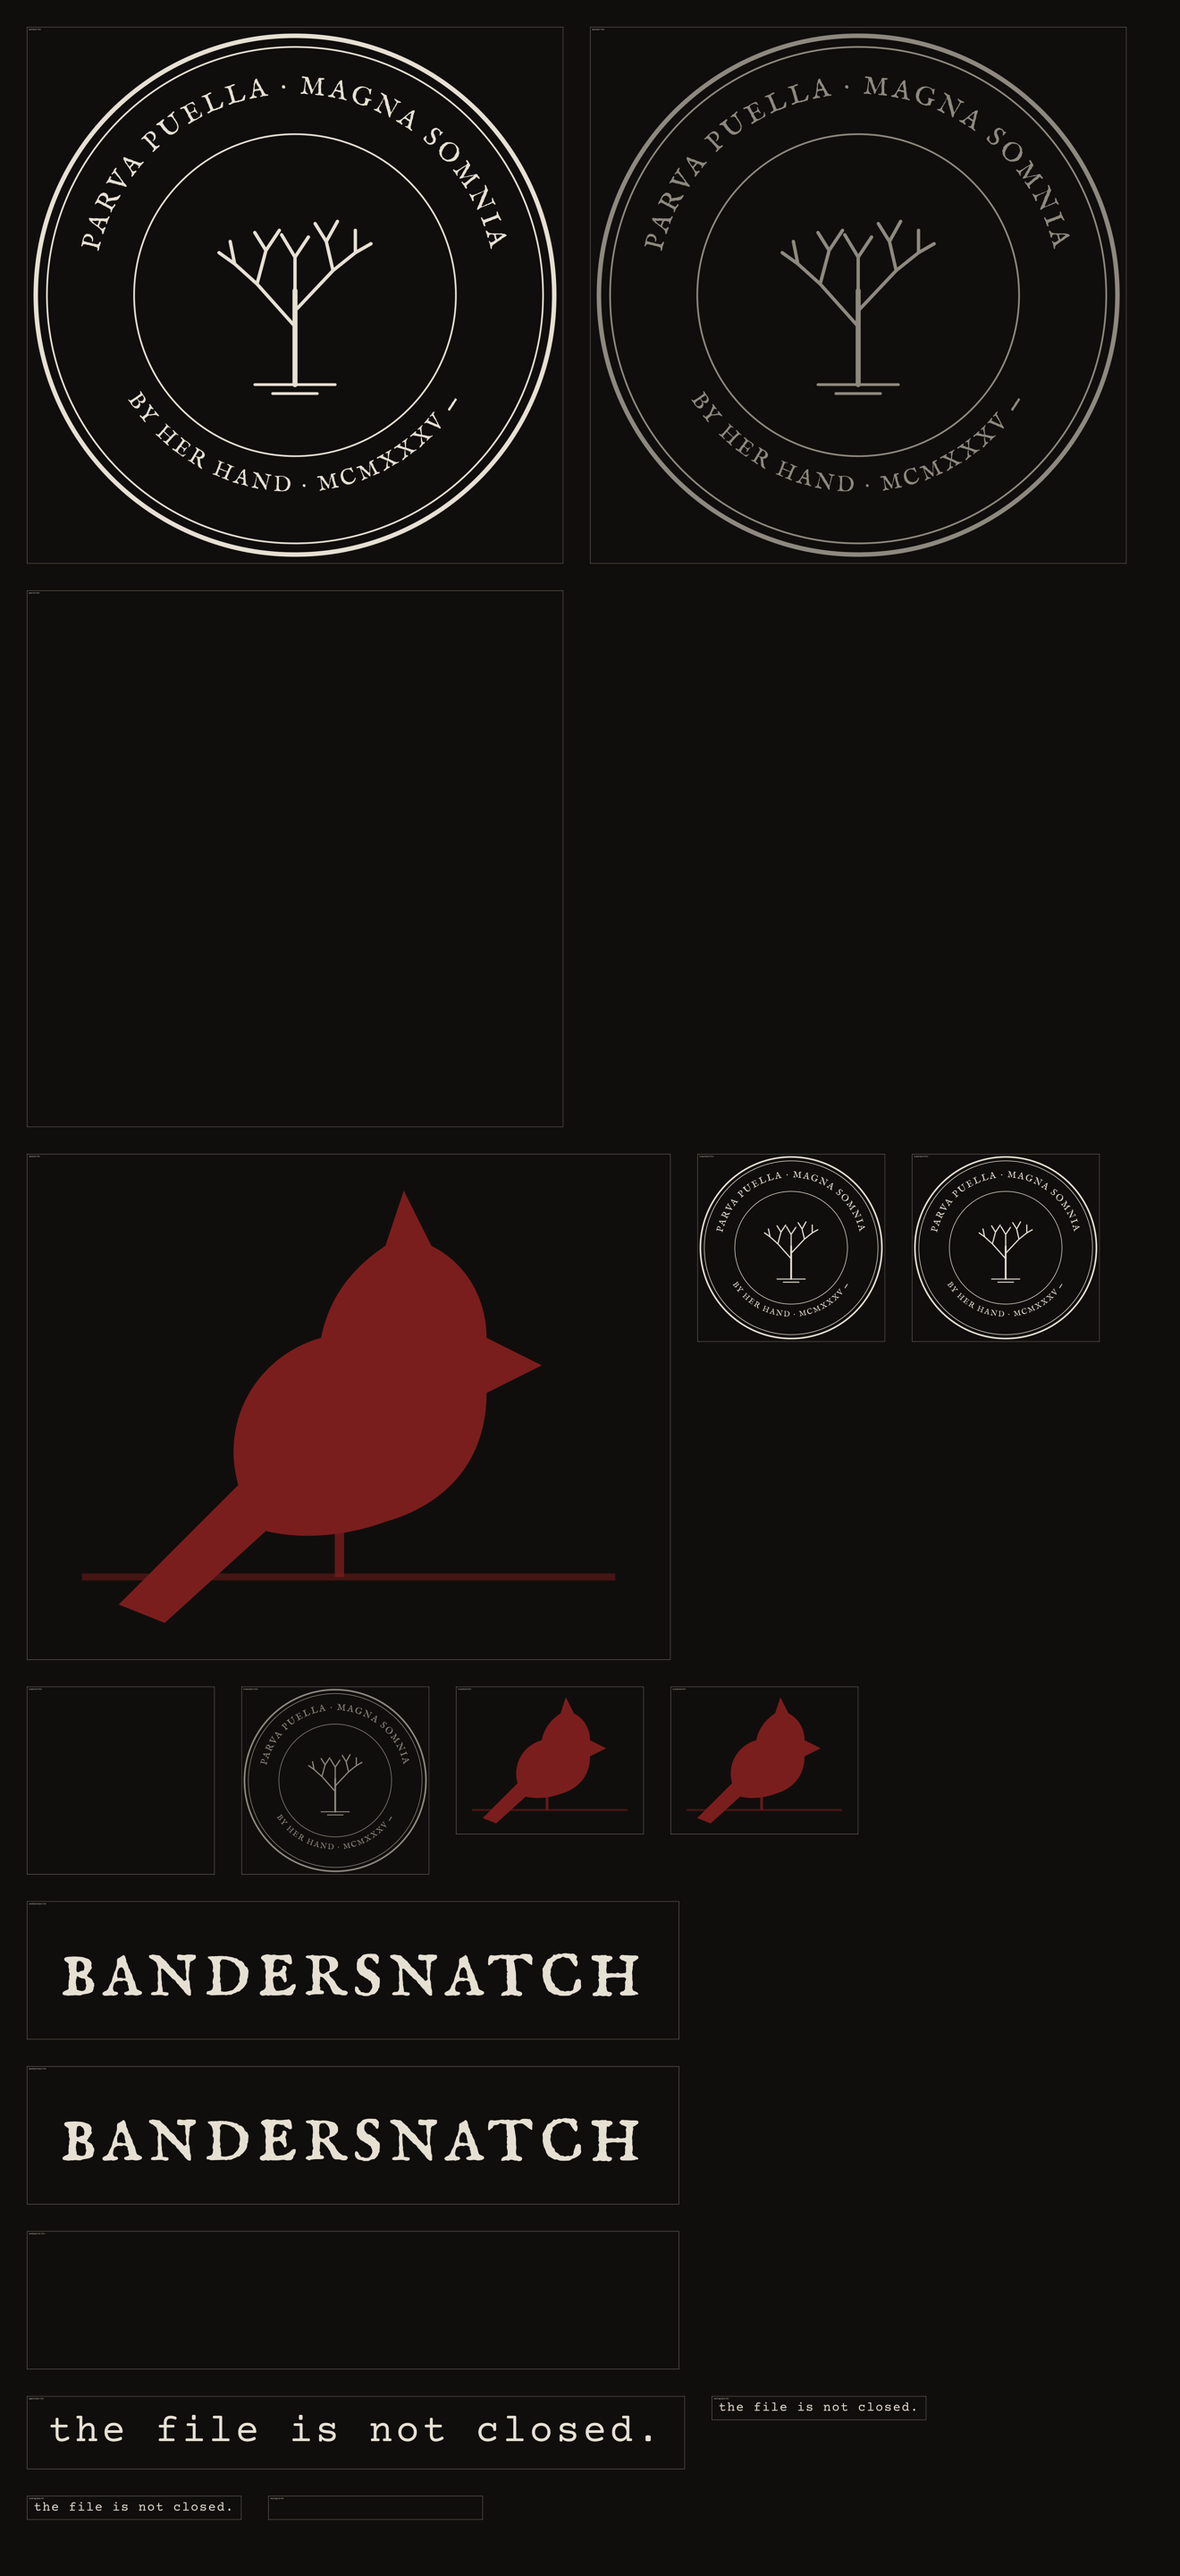
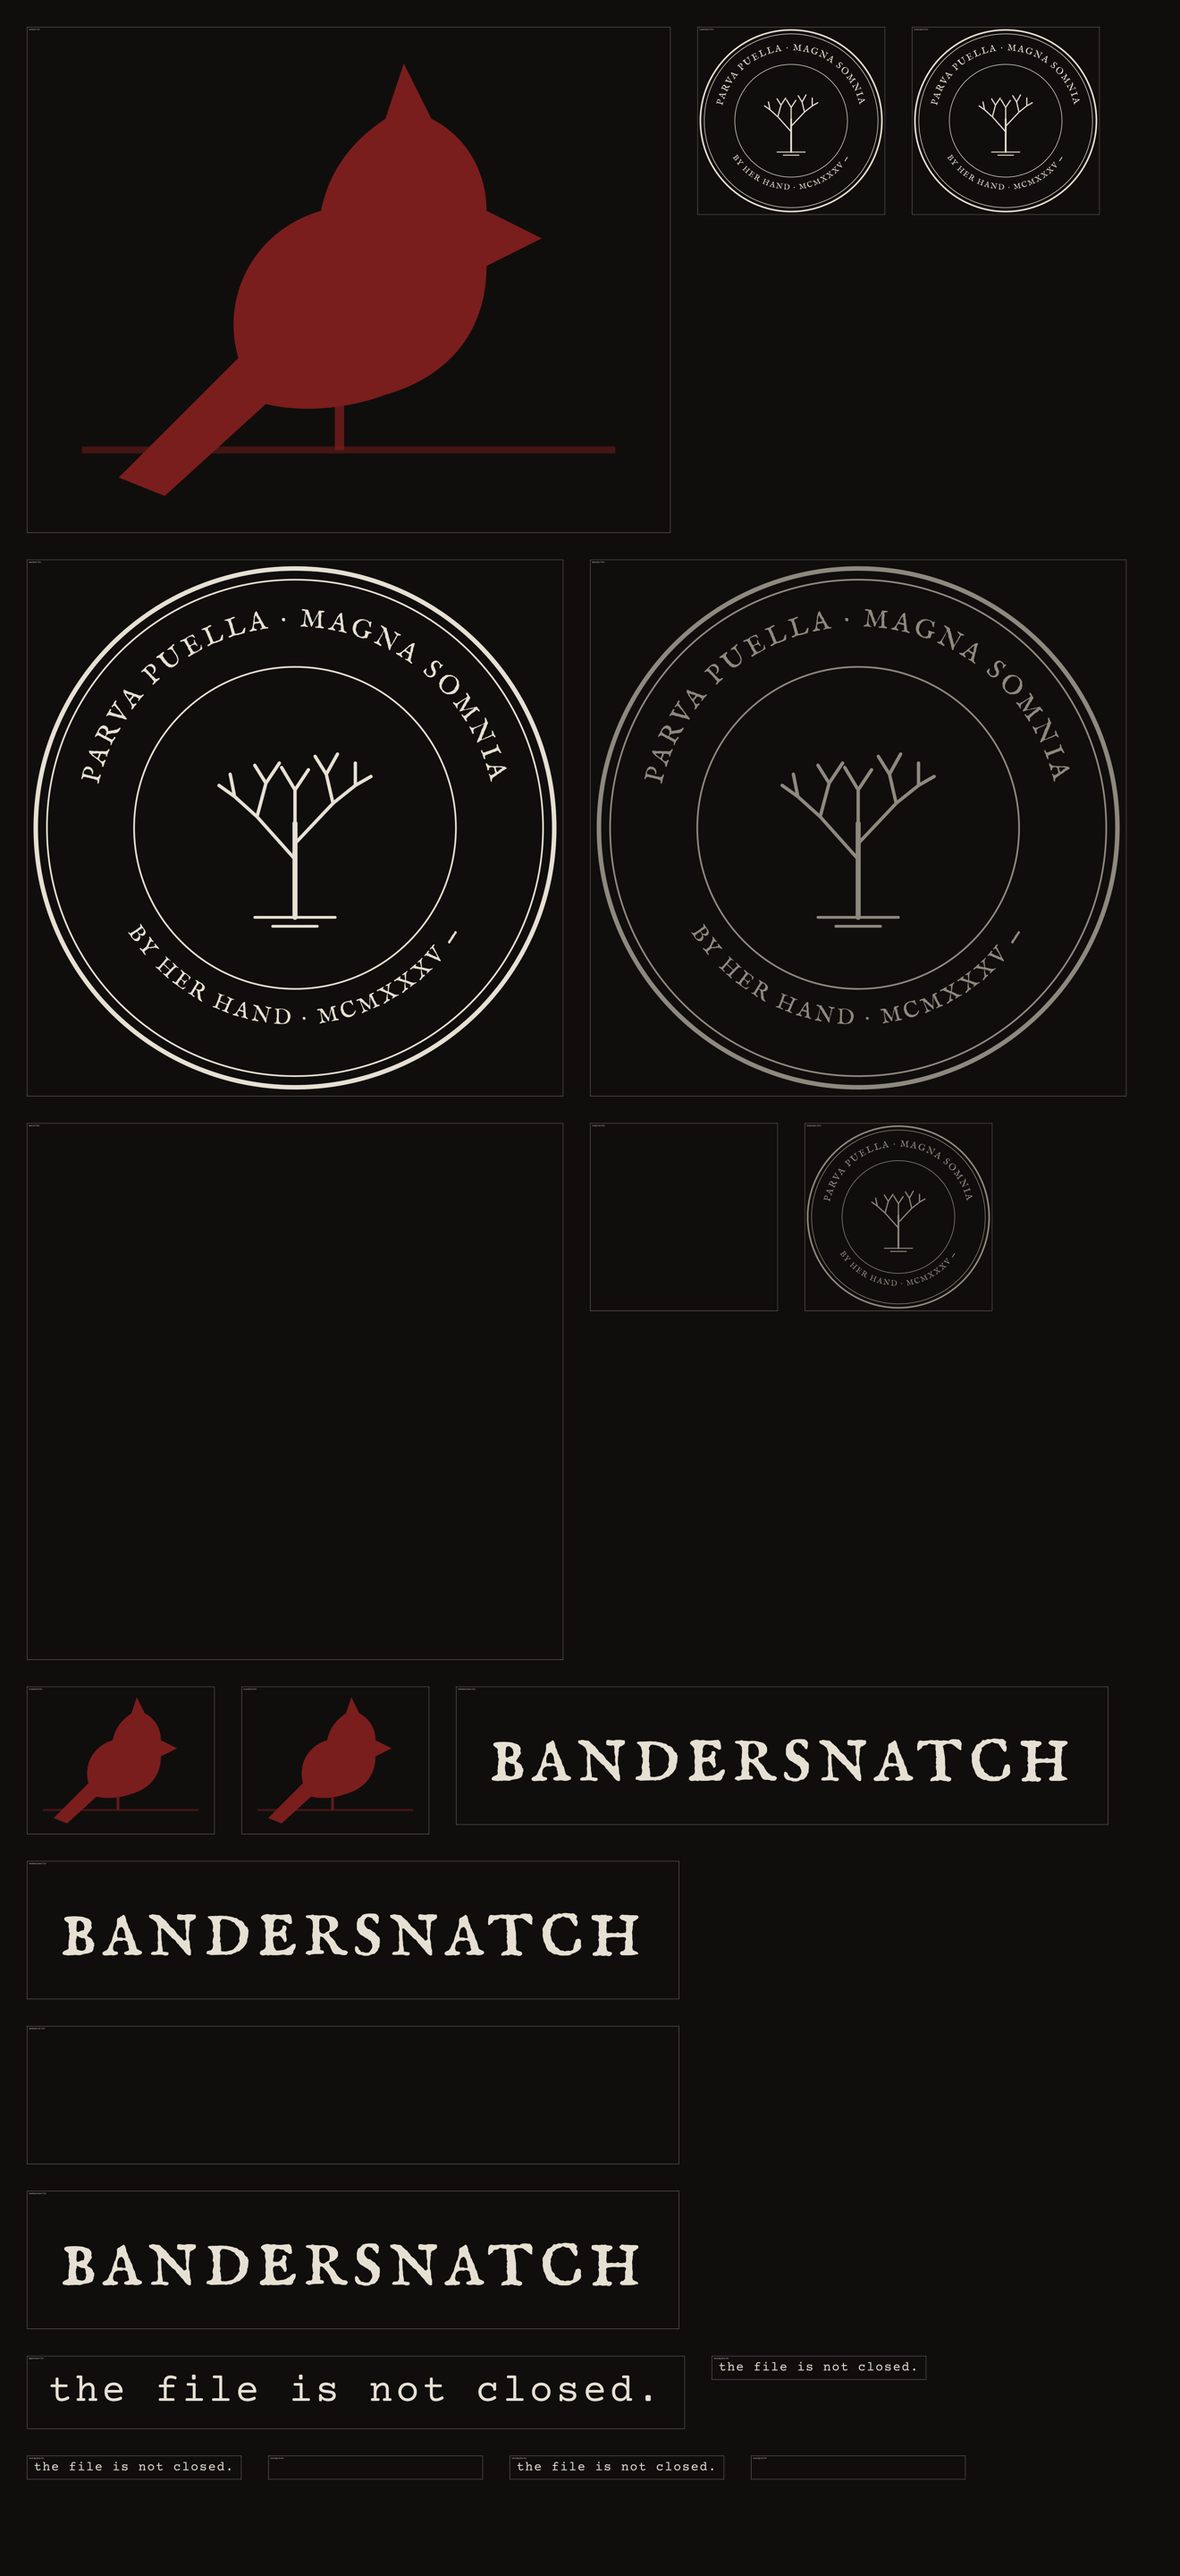
Lead the gang sheet with the cardinal and fill the paid length
Claude-Session: https://claude.ai/code/session_01VVaKMpAp7N7A4LLStGwZ5C

diff --git a/brand/dtf/compose-sheet.py b/brand/dtf/compose-sheet.py
@@ -34,10 +34,22 @@ items = [
     ("neck tag bone 4in",   load("bandersnatch-tagline-bone.png", 4)),
     ("neck tag bone 4in",   load("bandersnatch-tagline-bone.png", 4)),
     ("neck tag ink 4in",    load("bandersnatch-tagline-ink.png", 4)),
+    ("wordmark bone 12in",  load("bandersnatch-wordmark-bone.png")),
+    ("neck tag bone 4in",   load("bandersnatch-tagline-bone.png", 4)),
+    ("neck tag ink 4in",    load("bandersnatch-tagline-ink.png", 4)),
 ]
 
-# shelf pack: tallest first, fill rows left to right
-items.sort(key=lambda t: t[1].height, reverse=True)
+# shelf pack: the cardinal leads the sheet, the two left-chest seals
+# ride beside it to fill the row, the rest packs tallest-first
+lead, rest = [], []
+for t in items:
+    if (t[0] == "cardinal 12in" and not lead) or \
+       (t[0] == "lc seal bone 3.5in" and len(lead) in (1, 2)):
+        lead.append(t)
+    else:
+        rest.append(t)
+rest.sort(key=lambda t: t[1].height, reverse=True)
+items = lead + rest
 placed, x, y, row_h = [], GAP, GAP, 0
 for name, im in items:
     if x + im.width + GAP > W:
